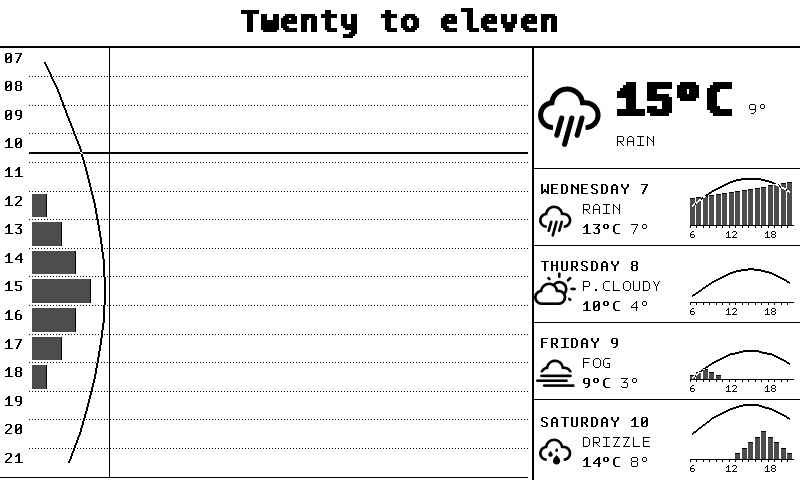
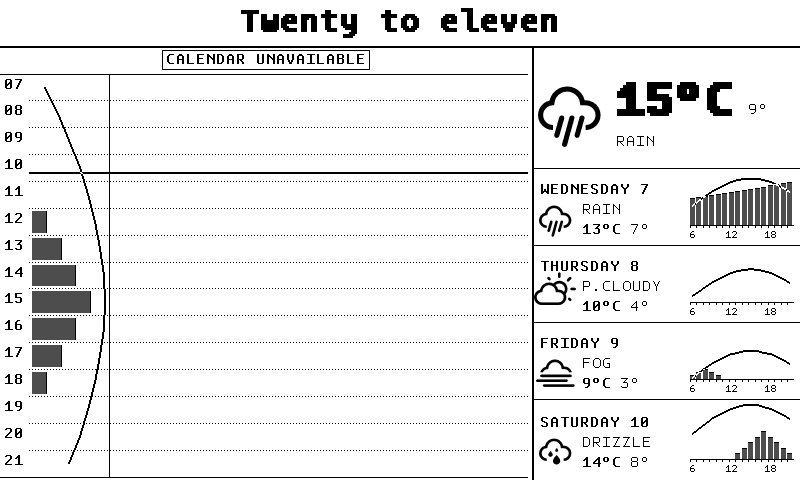
feat(daytimeline): say when the calendar is unavailable
An unreachable feed with nothing cached left the grid empty, which read
exactly like a free day. The widget now heads itself with an outlined
"CALENDAR UNAVAILABLE" note whenever its day data reports a feed with no
usable data, and still draws the events the other feeds sent. A feed
serving a cached copy draws as if it had answered.

The composed screen's calendar-down golden is updated to the new look.

diff --git a/internal/inkwell/widgets/daytimeline/feeds_test.go b/internal/inkwell/widgets/daytimeline/feeds_test.go
@@ -1,6 +1,10 @@
 package daytimeline
 
 import (
+	"image"
+	"maps"
+	"net/http"
+	"slices"
 	"strings"
 	"testing"
 	"time"
@@ -34,10 +38,16 @@ func vevent(uid, summary string, from, to time.Time) string {
 		"\r\nSUMMARY:" + summary + "\r\nEND:VEVENT\r\n"
 }
 
-// fromFeeds renders the widget built by Factory, its feeds served by tr.
+// fromFeeds is the widget built by Factory, its feeds served by tr.
 func fromFeeds(t *testing.T, tr *fakehttp.Client, feeds ...any) *Widget {
 	t.Helper()
-	clock := fixedClock(testTime)
+	return fromFeedsAt(t, tr, fixedClock(testTime), feeds...)
+}
+
+// fromFeedsAt is fromFeeds on the dashboard clock clock, which a test can
+// move on between renders.
+func fromFeedsAt(t *testing.T, tr *fakehttp.Client, clock func() time.Time, feeds ...any) *Widget {
+	t.Helper()
 	deps := widget.Deps{
 		Now:      clock,
 		Calendar: calendar.NewProvider(tr, clock),
@@ -74,4 +84,80 @@ func TestWidget_DuplicatesFromTwoFeedsAreOneBlock(t *testing.T) {
 		}
 	}
 	testutil.AssertGoldenPNG(t, frame)
+}
+
+// A feed with nothing to draw from, its fetch failed with no earlier good
+// copy, is said on the panel: an empty grid would read as a free day. The
+// feeds that did answer still draw. A feed that fails with a good copy
+// cached draws that copy, exactly as if it had answered, and says nothing.
+func TestWidget_UnavailableCalendar(t *testing.T) {
+	work := fakehttp.Reply{Body: vcalendar(
+		vevent("work-1", "Standup", at(9, 0), at(9, 30)),
+		vevent("work-2", "Design review", at(15, 0), at(16, 0)),
+	)}
+	family := fakehttp.Reply{Body: vcalendar(vevent("family-1", "Swim lessons", at(18, 30), at(19, 15)))}
+	down := fakehttp.Reply{Status: http.StatusInternalServerError}
+
+	tests := []struct {
+		label string
+		// earlier is what the feeds served on a render an hour before,
+		// past the refresh setting; nil for no earlier render.
+		earlier  map[string]fakehttp.Reply
+		replies  map[string]fakehttp.Reply
+		wantNote bool
+	}{
+		{label: "feed down with nothing cached", replies: map[string]fakehttp.Reply{workFeed: down}, wantNote: true},
+		{
+			label:   "feed down with a cached copy",
+			earlier: map[string]fakehttp.Reply{workFeed: work},
+			replies: map[string]fakehttp.Reply{workFeed: down},
+		},
+		{label: "one of two feeds down", replies: map[string]fakehttp.Reply{workFeed: down, familyFeed: family}, wantNote: true},
+	}
+	for _, tt := range tests {
+		t.Run(tt.label, func(t *testing.T) {
+			feeds := slices.Sorted(maps.Keys(tt.replies))
+			healthy := fakehttp.New()
+			for _, url := range feeds {
+				healthy.Set(url, map[string]fakehttp.Reply{workFeed: work, familyFeed: family}[url])
+			}
+
+			tr := fakehttp.New()
+			now := testTime
+			w := fromFeedsAt(t, tr, func() time.Time { return now }, toAny(feeds)...)
+			if tt.earlier != nil {
+				now = testTime.Add(-time.Hour)
+				for url, r := range tt.earlier {
+					tr.Set(url, r)
+				}
+				renderToFrame(t, w)
+				now = testTime
+			}
+			for url, r := range tt.replies {
+				tr.Set(url, r)
+			}
+			frame := renderToFrame(t, w)
+
+			// The top of the events column, where an ordinary day with
+			// nothing early draws nothing.
+			l, _ := gridOf(testBounds, defaultConfig().Window)
+			band := image.Rect(l.Events.Min.X, testBounds.Min.Y, l.Events.Max.X, testBounds.Min.Y+noteH())
+			if got := testutil.Inked(frame, band); got != tt.wantNote {
+				t.Errorf("note band inked = %v, want %v", got, tt.wantNote)
+			}
+			if !tt.wantNote && !testutil.SameIn(frame, renderToFrame(t, fromFeeds(t, healthy, toAny(feeds)...)), testBounds) {
+				t.Error("drew differently from every feed answering, want the cached copy drawn as if it had")
+			}
+			testutil.AssertGoldenPNG(t, frame)
+		})
+	}
+}
+
+// toAny is urls as the feeds a widget's config lists.
+func toAny(urls []string) []any {
+	out := make([]any, len(urls))
+	for i, u := range urls {
+		out[i] = u
+	}
+	return out
 }

diff --git a/internal/inkwell/widgets/daytimeline/layout.go b/internal/inkwell/widgets/daytimeline/layout.go
@@ -55,6 +55,8 @@ func stripH(lines int) int { return lines*drawkit.BodyLineH() + 2*notePadY }
 // take height only when they have something to say, so an ordinary day
 // gives the grid the whole height.
 type sections struct {
+	// Unavailable is whether the calendar note heads the widget.
+	Unavailable bool
 	// AllDay is how many lines the all-day strip lists, 0 for no strip.
 	AllDay  int
 	Earlier bool
@@ -64,7 +66,10 @@ type sections struct {
 // layout is where each part of the widget goes. Across the grid, left to
 // right: the hour labels, the weather lane, a rule, then the events.
 type layout struct {
-	// AllDay is the all-day strip across the top, empty when today has
+	// Unavailable is the band across the very top saying the calendar
+	// is unavailable, empty when every feed had something to draw from.
+	Unavailable image.Rectangle
+	// AllDay is the all-day strip under it, empty when today has
 	// nothing all day.
 	AllDay image.Rectangle
 	// Earlier and Later are the note bands above and below the grid,
@@ -80,26 +85,31 @@ type layout struct {
 	// Events is the column the blocks are drawn in.
 	Events image.Rectangle
 	// TopRule is whether the window's opening edge gets a solid rule: only
-	// when the all-day strip or the earlier note sits above the grid and
-	// needs closing off. Otherwise the grid starts at the widget's top
+	// when the calendar note, the all-day strip or the earlier note sits
+	// above the grid and needs closing off. Otherwise the grid starts at the widget's top
 	// edge with no rule, because what sits above the widget (a screen's
 	// separator, or the panel's edge) already closes it, and a second
 	// rule just under a separator reads as a double line.
 	TopRule bool
 }
 
-// computeLayout splits the widget's bounds. The all-day strip comes off
-// the top, and everything below is laid out inside whatever is left.
+// computeLayout splits the widget's bounds. The calendar note and then the
+// all-day strip come off the top, and everything below is laid out inside
+// whatever is left.
 func computeLayout(bounds image.Rectangle, s sections) layout {
 	agenda := bounds
 
 	var l layout
+	if s.Unavailable {
+		l.Unavailable = image.Rect(bounds.Min.X, agenda.Min.Y, bounds.Max.X, agenda.Min.Y+noteH())
+		agenda.Min.Y = l.Unavailable.Max.Y
+	}
 	if s.AllDay > 0 {
-		l.AllDay = image.Rect(bounds.Min.X, bounds.Min.Y, bounds.Max.X, bounds.Min.Y+stripH(s.AllDay))
+		l.AllDay = image.Rect(bounds.Min.X, agenda.Min.Y, bounds.Max.X, agenda.Min.Y+stripH(s.AllDay))
 		agenda.Min.Y = l.AllDay.Max.Y
 	}
 	top, bottom := agenda.Min.Y, agenda.Max.Y-gridPadY
-	if s.AllDay > 0 {
+	if s.Unavailable || s.AllDay > 0 {
 		top += gridPadY
 		l.TopRule = true
 	}

diff --git a/internal/inkwell/widgets/daytimeline/blocks.go b/internal/inkwell/widgets/daytimeline/blocks.go
@@ -77,6 +77,18 @@ func drawNote(frame *image.Paletted, band image.Rectangle, x int, text string) {
 		text, drawkit.BodyBoldFace, widget.PaperBlack)
 }
 
+// drawUnavailable says the calendar is unavailable, centred across band in
+// an outlined box like a tag's, so it reads as the widget's state rather
+// than as one more note about the day. It is an outline, never a fill: the
+// band sits in the same place every render it shows.
+func drawUnavailable(frame *image.Paletted, band image.Rectangle) {
+	t := newTag(daydata.NoCalendar, 0, 0)
+	at := image.Pt(band.Min.X+(band.Dx()-t.Rect.Dx())/2, band.Min.Y+(band.Dy()-t.Rect.Dy())/2)
+	t.Rect = t.Rect.Add(at.Sub(t.Rect.Min))
+	clip, _ := frame.SubImage(band).(*image.Paletted)
+	drawTag(clip, t)
+}
+
 // blockRect is where e's block goes: from the row its start falls on to
 // the row before its end, leaving one row of paper so back-to-back
 // events stay apart.

diff --git a/internal/inkwell/widgets/daytimeline/daytimeline.go b/internal/inkwell/widgets/daytimeline/daytimeline.go
@@ -51,12 +51,18 @@ func (w *Widget) Render(frame *image.Paletted) error {
 	list := allDayList(now.Location(), w.Config.ShowLocation)
 	width := computeLayout(w.Bounds(), sections{}).Events.Dx()
 	l := computeLayout(w.Bounds(), sections{
-		AllDay:  min(list.Lines(p.AllDay, width), stripLines),
-		Earlier: p.Earlier > 0,
-		Later:   p.Later > 0,
+		Unavailable: data.CalendarUnavailable,
+		AllDay:      min(list.Lines(p.AllDay, width), stripLines),
+		Earlier:     p.Earlier > 0,
+		Later:       p.Later > 0,
 	})
 	tl := newTimeline(today.Start, w.Config.Window, l.Grid)
 
+	// A feed with nothing to draw from would leave its events' hours
+	// looking free, so the widget says so over whatever did arrive.
+	if data.CalendarUnavailable {
+		drawUnavailable(frame, l.Unavailable)
+	}
 	if len(p.AllDay) > 0 {
 		list.Draw(frame, stripText(l), p.AllDay)
 	}

diff --git a/docs/guides/configuration.md b/docs/guides/configuration.md
@@ -670,8 +670,15 @@ window are not drawn; a "+N EARLIER" note above the grid or a
 "+N LATER" note below it counts them, and each note takes height only
 when there is something to count.
 
-The grid's top edge is ruled only when the all-day strip or the
-"+N EARLIER" note sits above it. Otherwise the grid starts at the
+When a feed can't be fetched and there is no earlier copy of it to
+show, the widget says "CALENDAR UNAVAILABLE" in an outlined box across
+its top, so a missing calendar never passes for a free day. Events from
+the feeds that did answer still draw beneath it. A feed that fails
+while an earlier copy is cached shows that copy, with no note, as
+though it had answered.
+
+The grid's top edge is ruled only when that note, the all-day strip or
+the "+N EARLIER" note sits above it. Otherwise the grid starts at the
 widget's top with no rule, so a separator placed above the widget, as
 under the clock band on the day-timeline screen, is the only line there.
 

diff --git a/GLOSSARY.md b/GLOSSARY.md
@@ -67,6 +67,13 @@ An event the feed owner has said no to. It still happens for everyone else, but
 is never shown. Each occurrence of a repeating event is declined on its own.
 _Avoid_: Rejected event, hidden event
 
+**Unavailable feed**:
+A feed with nothing to show: its fetch failed and there is no earlier good copy
+of it. A widget says the calendar is unavailable rather than draw the day as
+free. A feed that fails while a copy is cached shows that copy and is not
+unavailable.
+_Avoid_: Calendar down, offline feed, missing calendar
+
 ## Weather charts
 
 **Combined chart**:
